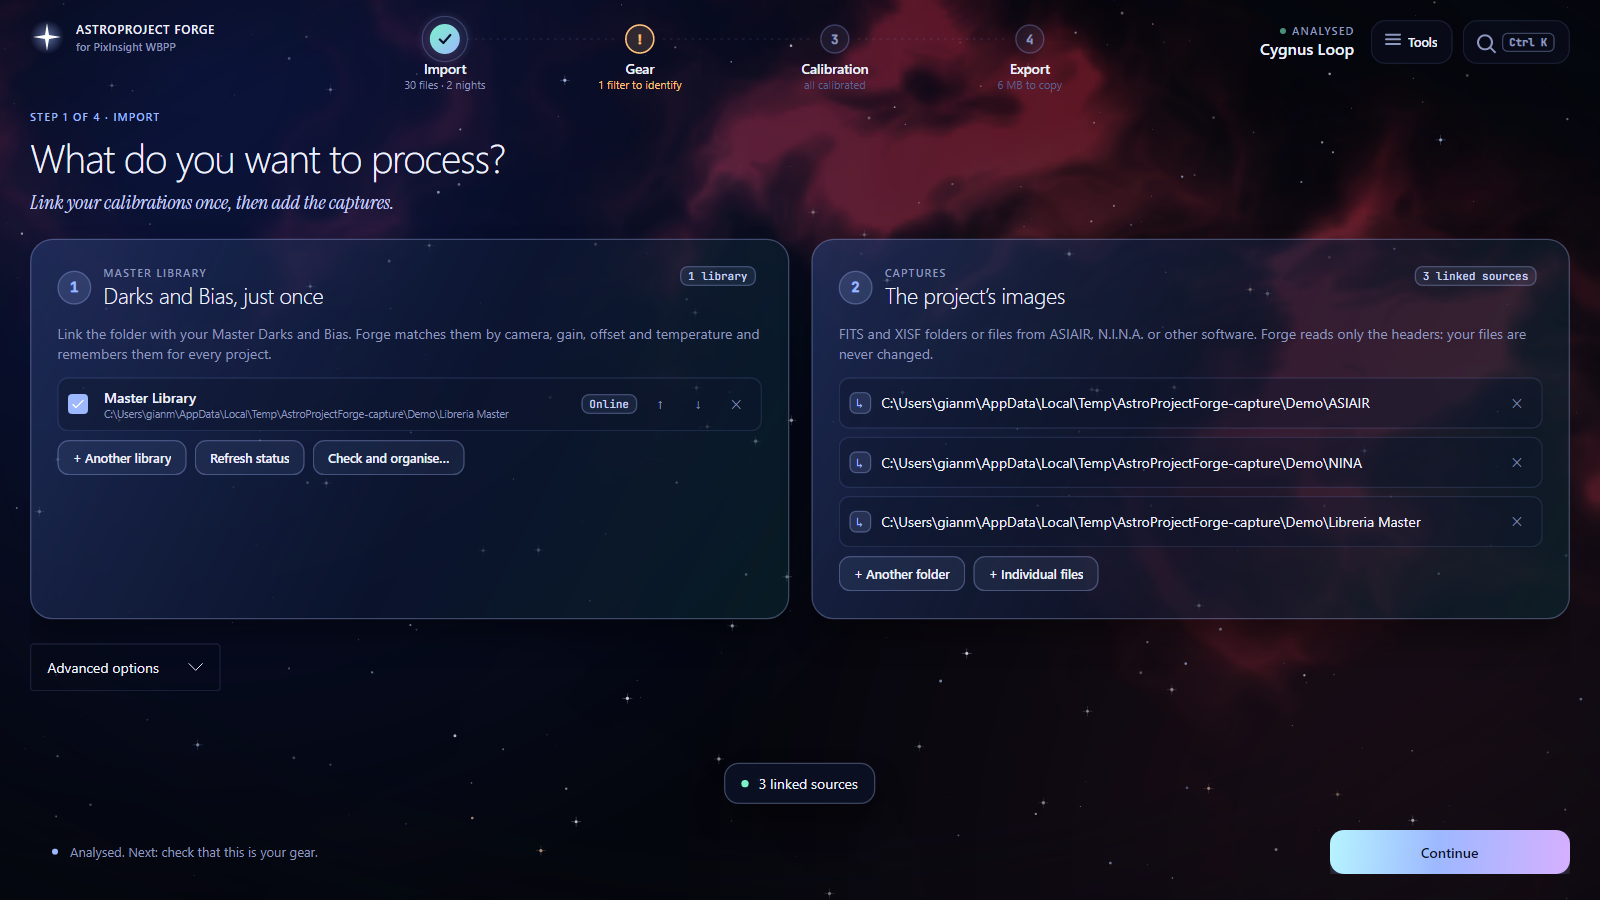
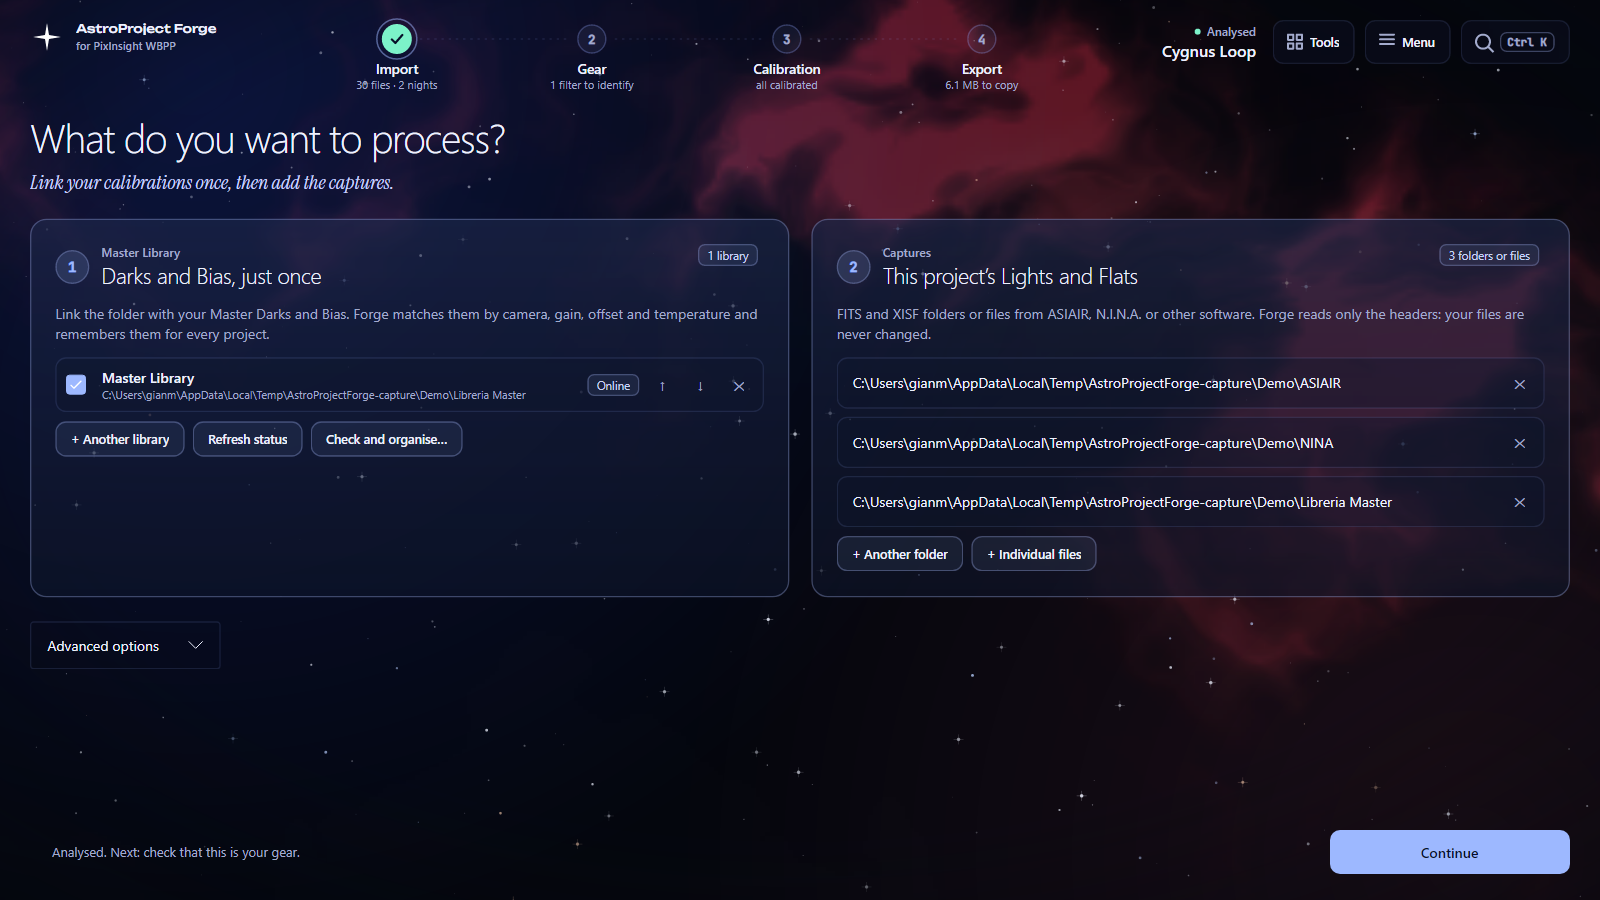
docs: 1.14.0 notes for the interface and app fixes, new step screenshots
Also: no em dashes left in generated guides, history and the support bundle
preview; the mixed-values marker of the inspector is a plain label; the
metadata tree is rebuilt when the language changes.

diff --git a/dotnet/AstroForge.CrossPlatform/Shared/ViewModels/MainViewModel.cs b/dotnet/AstroForge.CrossPlatform/Shared/ViewModels/MainViewModel.cs
@@ -240,6 +240,8 @@ public sealed class MainViewModel : BindableBase
                 Raise(name);
             Raise(nameof(ExportActionLabel)); Raise(nameof(ExportChangeSummary)); Raise(nameof(ExportResumeSummary));
             if (_analysis is not null) RefreshReviewQueue();
+            // The tree's group labels are written when it is built: build it again in the new language.
+            if (_frames.Count > 0) RebuildTree();
             if (_exportPreflight is not null) RefreshExportHistory(_exportPreflight.ProjectRoot);
             UiLanguageChanged?.Invoke(this, EventArgs.Empty);
         }
@@ -2016,7 +2018,7 @@ public sealed class MainViewModel : BindableBase
     {
         if (frames.Count == 0) return "";
         var values = frames.Select(selector).Distinct().Take(2).ToArray();
-        return values.Length == 1 ? formatter(values[0]) : "— Valori misti —";
+        return values.Length == 1 ? formatter(values[0]) : MixedValues;
     }
 
     private static string AggregateSource(IReadOnlyList<FrameMetadata>? frames, Func<FrameMetadata, MetadataSource> selector)
@@ -2059,7 +2061,9 @@ public sealed class MainViewModel : BindableBase
     private static string Input(double? value) => value?.ToString("0.###", CultureInfo.CurrentCulture) ?? "";
     private static double? ParseDefault(string text) => TryNumber(text, out var value) ? value : null;
 
-    private static bool IsMixed(string value) => value.StartsWith('—');
+    // What an editor field shows when the selected frames disagree; a field left on it is not applied.
+    private const string MixedValues = "(valori misti)";
+    private static bool IsMixed(string value) => value == MixedValues;
     private static string NormalizeText(string? value) => string.Join(' ', (value ?? "").Trim().ToLowerInvariant().Split((char[]?)null, StringSplitOptions.RemoveEmptyEntries));
     private IReadOnlyList<FrameMetadata> GetManualLinkFrames()
     {

diff --git a/dotnet/AstroForge.Core/Export/ExportHistory.cs b/dotnet/AstroForge.Core/Export/ExportHistory.cs
@@ -90,7 +90,7 @@ public static class ExportHistoryStore
 
     private static string Markdown(ExportHistoryDocument document)
     {
-        var text = new StringBuilder($"# Cronologia dati — {document.ProjectName}\n\n");
+        var text = new StringBuilder($"# Cronologia dati: {document.ProjectName}\n\n");
         var cumulative = new Dictionary<string, double>(StringComparer.Ordinal);
         var runningSeconds = 0d;
         foreach (var entry in document.Entries.OrderBy(item => item.CreatedAtUtc))
@@ -100,7 +100,7 @@ public static class ExportHistoryStore
         }
         foreach (var entry in document.Entries.OrderByDescending(item => item.CreatedAtUtc))
         {
-            text.AppendLine($"## {entry.CreatedAtUtc.ToLocalTime():yyyy-MM-dd HH:mm} — {(entry.Mode == "initial" ? "Prima esportazione" : entry.Mode == "baseline" ? "Dati precedenti" : "Aggiornamento")}");
+            text.AppendLine($"## {entry.CreatedAtUtc.ToLocalTime():yyyy-MM-dd HH:mm} · {(entry.Mode == "initial" ? "Prima esportazione" : entry.Mode == "baseline" ? "Dati precedenti" : "Aggiornamento")}");
             text.AppendLine();
             text.AppendLine($"- {entry.AddedFiles} file aggiunti · {Duration(entry.AddedIntegrationSeconds)} di integrazione · {entry.UnchangedFiles} invariati · totale {Duration(cumulative[entry.Id])}");
             foreach (var group in entry.Groups)

diff --git a/dotnet/AstroForge.Core/Export/ProjectExporter.cs b/dotnet/AstroForge.Core/Export/ProjectExporter.cs
@@ -302,7 +302,7 @@ public static class ProjectExporter
         builder.AppendLine("Caricare ricorsivamente `Light`, `Flat`, `Dark` e `Bias`.\n");
         builder.AppendLine("## Grouping Keywords\n");
         if (plan.Recipe.Keywords.Count == 0) builder.AppendLine("Lasciare vuota la tabella **Grouping Keywords**.\n");
-        foreach (var keyword in plan.Recipe.Keywords) builder.AppendLine($"- `{keyword.Keyword}` — Pre: {(keyword.Pre ? "ON" : "OFF")}, Post: {(keyword.Post ? "ON" : "OFF")} — {keyword.Reason}");
+        foreach (var keyword in plan.Recipe.Keywords) builder.AppendLine($"- `{keyword.Keyword}`: Pre {(keyword.Pre ? "ON" : "OFF")}, Post {(keyword.Post ? "ON" : "OFF")}. {keyword.Reason}");
         builder.AppendLine("\n`FILTER`, binning ed esposizione sono gestiti nativamente. Non aggiungere `DATE-OBS`. Smart naming override non è necessario per keyword personalizzate nel percorso.");
         builder.AppendLine("\nPrima di Run, verificare nella scheda Calibration che ogni Light mostri Dark, Flat e Bias previsti.");
         return builder.ToString();

diff --git a/dotnet/AstroForge.Core/Diagnostics/SupportBundleBuilder.cs b/dotnet/AstroForge.Core/Diagnostics/SupportBundleBuilder.cs
@@ -18,12 +18,12 @@ public static class SupportBundleBuilder
 {
     public static readonly IReadOnlyList<string> PreviewEntries =
     [
-        "README.txt — contenuto e limiti privacy",
-        "system.json — versione app, sistema operativo e runtime",
-        "settings.json — sole impostazioni tecniche non sensibili",
-        "diagnostics.json — conteggi, mai nomi o percorsi dei file",
-        "issues.json — codici, severità e quantità",
-        "logs/*.jsonl — eventi applicativi strutturati senza dati astronomici"
+        "README.txt: contenuto e limiti privacy",
+        "system.json: versione app, sistema operativo e runtime",
+        "settings.json: sole impostazioni tecniche non sensibili",
+        "diagnostics.json: conteggi, mai nomi o percorsi dei file",
+        "issues.json: codici, severità e quantità",
+        "logs/*.jsonl: eventi applicativi strutturati senza dati astronomici"
     ];
 
     public static async Task<SupportBundleResult> BuildAsync(SupportBundleRequest request, CancellationToken cancellationToken = default)

diff --git a/dotnet/AstroForge.Core/Analysis/ProjectStatistics.cs b/dotnet/AstroForge.Core/Analysis/ProjectStatistics.cs
@@ -163,6 +163,6 @@ public static class ProjectStatisticsCalculator
     private static string JoinNames(IEnumerable<FrameMetadata?> frames)
     {
         var names = frames.Where(frame => frame is not null).Select(frame => frame!.FileName).Distinct(StringComparer.OrdinalIgnoreCase).ToArray();
-        return names.Length == 0 ? "—" : string.Join(", ", names);
+        return string.Join(", ", names);
     }
 }

diff --git a/docs/CHANGELOG.md b/docs/CHANGELOG.md
@@ -53,6 +53,40 @@ Revisione dell’algoritmo e dell’interfaccia: tutto il codice è stato rilett
 
 - Se una delle due fonti (feed del canale o GitHub) va in timeout o risponde con dati non validi, l’altra viene comunque usata.
 
+**Uso quotidiano**
+
+- Una sorgente su un disco non collegato all’avvio (un NAS, un disco USB) spariva dal progetto e dal file salvato al primo salvataggio. Ora resta elencata.
+- Un’analisi alla volta: si poteva avviarne una seconda mentre la prima era in corso, e un’analisi letta per sorgenti cambiate nel frattempo veniva mostrata come il progetto. Ora le richieste aspettano quella in corso, e un risultato superato viene riletto.
+- I Light messi da parte nel Quality Lab escono subito da ciò che è pronto, dalle scelte da fare e dai totali. “Ripristina tutti” riprende anche le esclusioni fatte prima dell’ultima analisi.
+- “Annulla” dopo una nuova analisi agiva sui frame vecchi e diceva di aver funzionato: ora la cronologia delle modifiche riparte con l’analisi.
+- “Tutta la notte” per un Dark o un Bias raggiungeva anche Light con un’altra esposizione o un altro gain, che diventavano incompatibili.
+- Svuotare un campo toglie la correzione e torna al valore del file, invece di registrare “nessun valore”.
+- La linea delle notti segue l’orologio del sito, come le notti: i Light di un osservatorio remoto non cadono più fuori dal riquadro.
+- Un file di progetto che non si riesce a scrivere non resta più quello su cui ogni azione successiva prova a salvare. Un’azione che fallisce mostra un avviso con il motivo, invece di finire solo nel registro.
+- Nelle viste delle calibrazioni i Dark Flat e i set di Bias grezzi sono chiamati con il loro nome, e una calibrazione senza differenze è segnata come identica (prima bastava un campo facoltativo assente, come il rotatore, per farla risultare “entro la tolleranza”).
+
+**Interfaccia**
+
+- Via la riga “PASSO N DI 4” sopra ogni titolo, che ripeteva la barra dei passi, e via le etichette tutte in maiuscolo: titoli di scheda, intestazioni e stati sono scritti normalmente, in italiano e in inglese.
+- Un solo formato per numeri, percentuali, durate e dimensioni, nella lingua dell’interfaccia. Prima convivevano “0.3 h” e “0,3 h”, “6.14 MB” e “6 MB”, “20 min” e “40m”, “100 %” e “100%”.
+- Una parola per ogni cosa: i filtri sono “da riconoscere”, la libreria è “Libreria Master”, il passo è “Strumento”, i file sono “acquisizioni”, il filtro è Hα. I conteggi hanno singolare e plurale veri (“1 filtro/i” non c’è più). Su un computer si “clicca”, non si “tocca”.
+- Testi che venivano tagliati: la nota sotto il cielo, la scritta del trascinamento, le intestazioni della Libreria Master. “Campo inquadrato · Filtro Filtro 3” ripeteva la parola.
+- Il pulsante del catalogo accanto a Camera e Ottica era un puntino quasi invisibile: ora è un pulsante “Catalogo”. Il nome del riduttore non ripete più il fattore.
+- Passo Importa: le due schede non hanno più un’altezza minima che spingeva “Opzioni avanzate” fuori dallo schermo.
+- Passo Calibrazioni: un solo anello (il secondo ripeteva il primo), una legenda per i segni delle celle, e il titolo “Da risolvere” compare solo quando c’è qualcosa da risolvere.
+- Passo Esporta: la scheda di WBPP sta sotto le notti, così le due colonne hanno altezze simili; nome del progetto e destinazione hanno un’etichetta; i riquadri del riepilogo compaiono quando hanno un dato e “Controlla prima” sparisce a esportazione finita.
+- Aspetto: il pulsante principale è in tinta unita (via il gradiente azzurro-lilla), via bagliori e ombre da schede e pulsanti, tre soli raggi per gli angoli. Il diagramma di WBPP è fatto di corsie dritte, senza nastri ondulati che non dicevano nulla. Via la stellina dalla barra delle novità e i puntini decorativi. Nessuna animazione gira in continuo tranne le stelle dello sfondo, che “Riduci animazioni” ferma.
+- Caratteri: ciascuno ha un compito solo. Il testo e i titoli in Inter, Unbounded per il nome e i numeri grandi, il corsivo con grazie per il sottotitolo della pagina, il monospazio per keyword e valori misurati.
+- Leggibilità: nessun testo sotto gli 11 pixel, e il contrasto dei testi secondari supera 4,5:1 anche sul punto più chiaro dello sfondo.
+- La mappa delle calibrazioni si usa anche da tastiera, con le frecce e Invio.
+- “Dimensione interfaccia” veniva salvata e mai applicata: ora ridimensiona l’interfaccia.
+- I messaggi che comparivano solo in italiano anche con l’interfaccia in inglese (avvisi, riepiloghi, albero dei metadati, errori) hanno la loro versione inglese. Dal dizionario sono uscite 447 voci che nessuna schermata usava più.
+
+**Controlli QA**
+
+- Nuovo gruppo di test del Core per ogni correzione: stelle sintetiche per la FWHM, ora di scatto e siti remoti, spareggi tra Dark, nomi file, cartelle della libreria, card FITS e XISF, regole di abbinamento, coordinate, e un’esportazione vera con Dark e Bias grezzi fino all’istanza WBPP.
+- Le immagini dei quattro passi nella documentazione sono state rifatte sull’interfaccia nuova.
+
 ## 1.13.1 — 1 ottobre 2026
 
 - **Passo Esporta: la colonna di sinistra non si stira più.** Con l’esportazione finita la colonna di destra (mappa dell’export e WBPP) diventa molto più alta, e aprendo “Grouping Keywords da inserire a mano” cresceva ancora: la colonna di sinistra si allungava insieme, così si muoveva e si ingrandiva soltanto l’immagine dell’integrazione, e sotto restava un riquadro delle notti quasi vuoto. Ora le due colonne hanno ciascuna la propria altezza: l’anteprima dell’integrazione e le notti restano com’erano, qualunque cosa succeda a destra.
